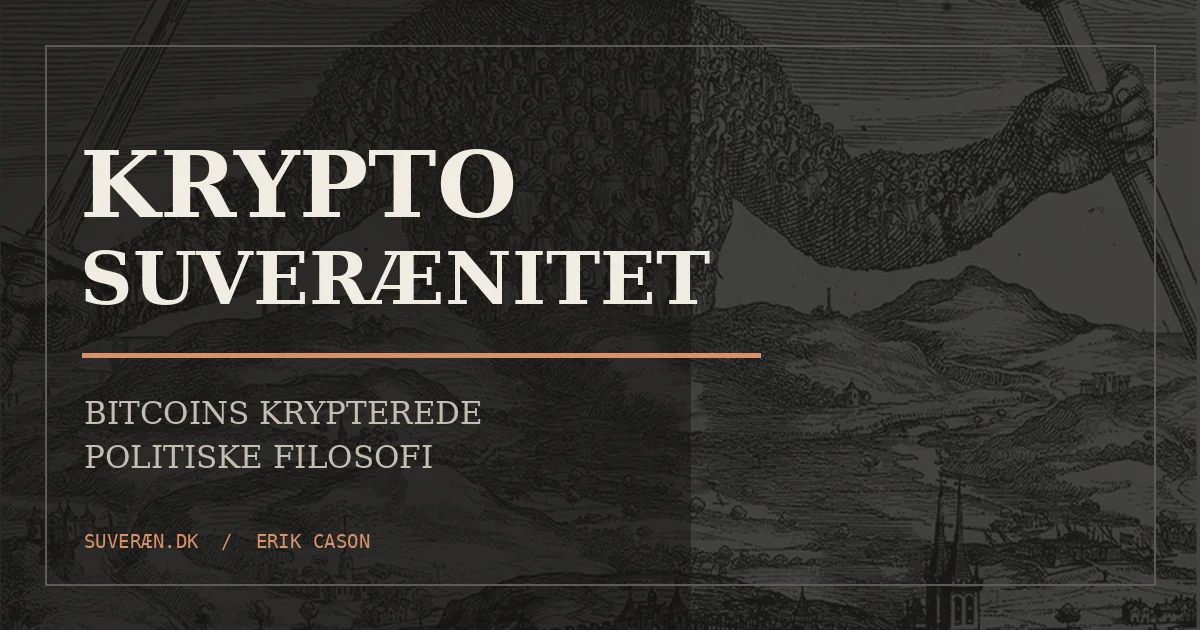
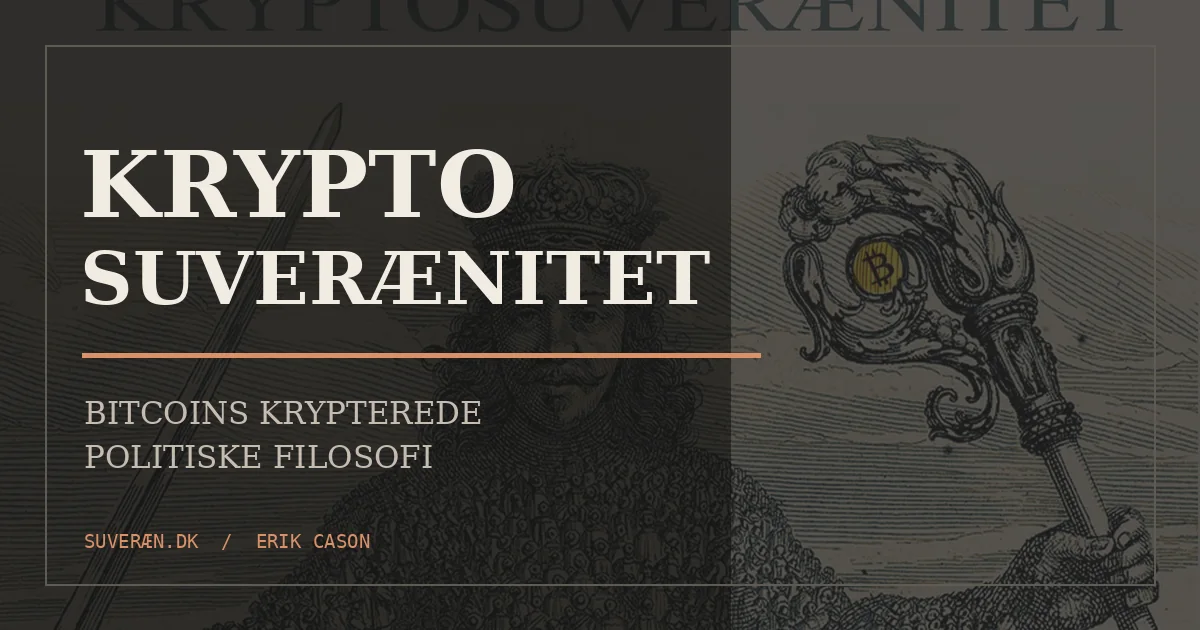
Integrate supplied images and refine mobile layout

Changed region(s): [[0.555, 0.0, 1.0, 1.0], [0.3083, 0.181, 0.3392, 0.2111]]

diff --git a/assets/css/main.css b/assets/css/main.css
@@ -436,3 +436,131 @@ p { margin-block: 0 1.2em; }
 @media print {
   .hero-leviathan, .author-section { background: none; }
 }
+
+/* User-supplied full-page background and mobile-first refinements */
+body {
+  background-color: var(--paper);
+  background-image:
+    linear-gradient(rgba(18,17,15,.965), rgba(18,17,15,.985)),
+    url('/assets/images/background.webp');
+  background-position: center top;
+  background-size: min(100rem, 125vw) auto;
+  background-repeat: repeat-y;
+  background-attachment: scroll;
+}
+.section, .cta-band, .site-footer { background-color: rgba(18,17,15,.93); }
+.section-soft { background-color: rgba(25,23,20,.95); }
+.hero-leviathan {
+  background:
+    linear-gradient(90deg, rgba(18,17,15,.99) 0%, rgba(18,17,15,.95) 43%, rgba(18,17,15,.66) 100%),
+    url('/assets/images/background.webp') right 31% center / min(66rem, 76vw) auto no-repeat;
+}
+.hero-leviathan::before {
+  background:
+    linear-gradient(180deg, var(--paper) 0, transparent 18%, transparent 76%, var(--paper) 100%),
+    repeating-linear-gradient(0deg, transparent 0 5px, rgba(241,236,226,.014) 5px 6px);
+}
+.author-section {
+  background:
+    linear-gradient(90deg, rgba(18,17,15,.99) 0%, rgba(18,17,15,.93) 58%, rgba(18,17,15,.84) 100%),
+    url('/assets/images/background.webp') right 16% center / 52rem auto no-repeat;
+}
+.book-figure picture { display: block; }
+.book-cover { height: auto; }
+
+@media (max-width: 860px) {
+  .site-header { position: relative; backdrop-filter: none; }
+  .nav-shell { width: 100%; padding: .85rem 0 0; gap: .55rem; }
+  .brand { margin-left: 1rem; }
+  .nav-list {
+    width: 100%;
+    justify-content: flex-start;
+    gap: .25rem;
+    overflow-x: auto;
+    overscroll-behavior-inline: contain;
+    scrollbar-width: thin;
+    padding: .1rem 1rem .7rem;
+    scroll-padding-inline: 1rem;
+  }
+  .nav-list a {
+    display: inline-flex;
+    min-height: 2.75rem;
+    align-items: center;
+    padding-inline: .7rem;
+    white-space: nowrap;
+  }
+  .nav-list .buy-link { min-height: 2.75rem; padding-inline: .8rem; }
+  .hero-leviathan {
+    background:
+      linear-gradient(180deg, rgba(18,17,15,.985) 0%, rgba(18,17,15,.94) 48%, rgba(18,17,15,.75) 100%),
+      url('/assets/images/background-mobile.webp') center bottom / 100% auto no-repeat;
+  }
+  .hero-grid { gap: 3.4rem; }
+  .book-figure { width: min(72vw, 20rem); }
+  .book-figure::before { right: -1.25rem; }
+}
+
+@media (max-width: 600px) {
+  html { scroll-padding-top: 1rem; }
+  body {
+    font-size: 1rem;
+    line-height: 1.68;
+    background-image:
+      linear-gradient(rgba(18,17,15,.975), rgba(18,17,15,.99)),
+      url('/assets/images/background-mobile.webp');
+    background-size: 100% auto;
+  }
+  .shell, .narrow { width: min(calc(100% - 2rem), var(--measure)); }
+  .nav-shell { width: 100%; }
+  .brand { font-size: 1rem; }
+  .nav-list { font-size: .75rem; }
+  .hero { padding-block: 2.7rem 4.3rem; }
+  .hero h1 {
+    max-width: 100%;
+    font-size: clamp(2.72rem, 13.3vw, 4rem);
+    line-height: .98;
+    letter-spacing: -.045em;
+    overflow-wrap: anywhere;
+  }
+  .hero-subtitle { margin-top: .85rem; font-size: clamp(1.28rem, 6vw, 1.65rem); }
+  .hero-description { font-size: 1.08rem; line-height: 1.5; }
+  .actions { margin-top: 1.6rem; gap: .65rem; }
+  .button { min-height: 3.35rem; padding: .8rem 1rem; }
+  .book-figure { width: min(78vw, 18rem); }
+  .book-cover { box-shadow: .7rem .8rem 0 rgba(9,8,6,.86), 0 1.4rem 3rem rgba(0,0,0,.52); }
+  .book-figure figcaption { margin-top: 1.15rem; font-size: .7rem; }
+  .section { padding-block: 3.6rem; }
+  .section-head { margin-bottom: 2.25rem; }
+  h2 { font-size: clamp(2.05rem, 10.5vw, 3.2rem); }
+  h3 { line-height: 1.16; }
+  .lede { font-size: 1.17rem; line-height: 1.48; }
+  .split { gap: 2rem; }
+  .fact, .card, .part-card, .resource-card { padding: 1.4rem; }
+  .part-card { min-height: 0; }
+  .part-index { margin-bottom: 2rem; }
+  .part-card p { margin-top: 2rem; }
+  .concept-list > div { padding: 1.15rem 0; }
+  .concept-list dd, .reading-item p { font-size: .96rem; }
+  .name-list strong { font-size: 1.05rem; }
+  .reading-section { margin-bottom: 3.6rem; }
+  .reading-item { padding-block: 1.25rem; }
+  .source-link { display: inline-flex; min-height: 2.75rem; align-items: center; margin-top: .35rem; }
+  .resource-links a { min-height: 3.35rem; align-items: center; }
+  .notice, .editorial-note { font-size: .8rem; }
+  .page-hero { padding-block: 3.75rem; }
+  .page-hero h1 { font-size: clamp(2.75rem, 13vw, 4.2rem); overflow-wrap: anywhere; }
+  .toc a { min-height: 3rem; align-items: center; }
+  .footer-links { row-gap: .3rem; }
+  .footer-links a { display: inline-flex; min-height: 2.75rem; align-items: center; }
+}
+
+@media (max-width: 370px) {
+  .shell, .narrow { width: min(calc(100% - 1.5rem), var(--measure)); }
+  .hero h1 { font-size: 2.55rem; }
+  .book-figure { width: min(82vw, 17rem); }
+  .fact-grid, .card-grid, .part-grid, .resource-stack { margin-inline: 0; }
+}
+
+@media print {
+  body, .section, .section-soft, .cta-band, .site-footer { background: #fff; }
+}

diff --git a/index.html b/index.html
@@ -68,7 +68,10 @@
         </div>
       </div>
       <figure class="book-figure">
-        <img class="book-cover" src="/assets/images/book-cover.webp" width="1100" height="1423" alt="Bogforsiden til Kryptosuverænitet med en bearbejdet Leviathan-illustration">
+        <picture>
+          <source media="(max-width: 700px)" srcset="/assets/images/book-cover-640.webp">
+          <img class="book-cover" src="/assets/images/book-cover.webp" width="900" height="1359" alt="Forsiden af bogen Kryptosuverænitet med en bearbejdet Leviathan-illustration" fetchpriority="high" decoding="async">
+        </picture>
         <figcaption>Den danske udgave · SHOP21 ApS · 261 sider</figcaption>
       </figure>
     </div>

diff --git a/scripts/check_site.py b/scripts/check_site.py
@@ -62,7 +62,7 @@ for file in html:
   if href.startswith(('http://','https://')): external.add(href); continue
   t=target(href)
   if t and not t.exists(): ERRORS.append(f'{rel}: broken internal link {href}')
-for path in ('404.html','robots.txt','sitemap.xml','CNAME','assets/images/favicon.svg','assets/images/social-card.webp','assets/images/book-cover.webp','assets/images/leviathan-bg.webp'):
+for path in ('404.html','robots.txt','sitemap.xml','CNAME','assets/images/favicon.svg','assets/images/social-card.webp','assets/images/9788785340085.jpg','assets/images/background.png','assets/images/book-cover.webp','assets/images/book-cover-640.webp','assets/images/background.webp','assets/images/background-mobile.webp','assets/images/leviathan-bg.webp'):
  if not (ROOT/path).exists(): ERRORS.append(f'Missing required file: {path}')
 if (ROOT/'CNAME').read_text().strip()!='xn--suvern-tua.dk': ERRORS.append('CNAME must use punycode apex')
 sitemap=(ROOT/'sitemap.xml').read_text()

diff --git a/README.md b/README.md
@@ -39,9 +39,10 @@ Der skal ikke installeres Ruby, Node.js eller andre dependencies. Stop serveren 
 | Læseliste, noter og kildelinks | `laeseliste/index.html` |
 | Ressourcer | `ressourcer/index.html` |
 | Farver, typografi og responsivt design | `assets/css/main.css` |
-| Bogforside | `assets/images/book-cover.webp` |
+| Bogforside | `assets/images/book-cover.webp` og mobilvariant `book-cover-640.webp` |
 | Social delingsgrafik | `assets/images/social-card.webp` |
-| Leviathan-baggrund | `assets/images/leviathan-bg.webp` |
+| Brugerleveret baggrund | `assets/images/background.webp` og `background-mobile.webp` |
+| Tidligere Leviathan-afledning | `assets/images/leviathan-bg.webp` |
 | Favicon | `assets/images/favicon.svg` |
 | Titler, descriptions, canonical og Open Graph | `<head>` i hver HTML-fil |
 | Søgemaskiners sider | `sitemap.xml` og `robots.txt` |
@@ -49,13 +50,13 @@ Der skal ikke installeres Ruby, Node.js eller andre dependencies. Stop serveren 
 
 ### Bogforside og baggrund
 
-Den officielle forside er leveret og godkendt til projektet af bogprojektets ejer. Den weboptimerede fil ligger som `assets/images/book-cover.webp`. En beskåret, monokrom afledning af Leviathan-motivet ligger i `assets/images/leviathan-bg.webp` og bruges som diskret hero- og sektionsbaggrund.
+De originale, godkendte kildebilleder ligger som `assets/images/9788785340085.jpg` og `assets/images/background.png`. Produktionssiden bruger weboptimerede varianter: `book-cover.webp`/`book-cover-640.webp` og `background.webp`/`background-mobile.webp`. Den tidligere monokrome Leviathan-afledning bevares som et lokalt designasset.
 
 Ved en senere udskiftning:
 
-1. eksportér den godkendte forside som WebP i omtrent samme billedforhold,
-2. optimér filen og erstat `assets/images/book-cover.webp`,
-3. opdatér eventuelt `assets/images/leviathan-bg.webp`,
+1. erstat de godkendte kildefiler `9788785340085.jpg` og/eller `background.png`,
+2. generér og optimér begge desktop- og mobilvarianter i WebP,
+3. opdatér eventuelt socialkortet og `leviathan-bg.webp`,
 4. ret filernes mål og billedets `alt`-tekst i `index.html`,
 5. commit og push ændringen.
 
